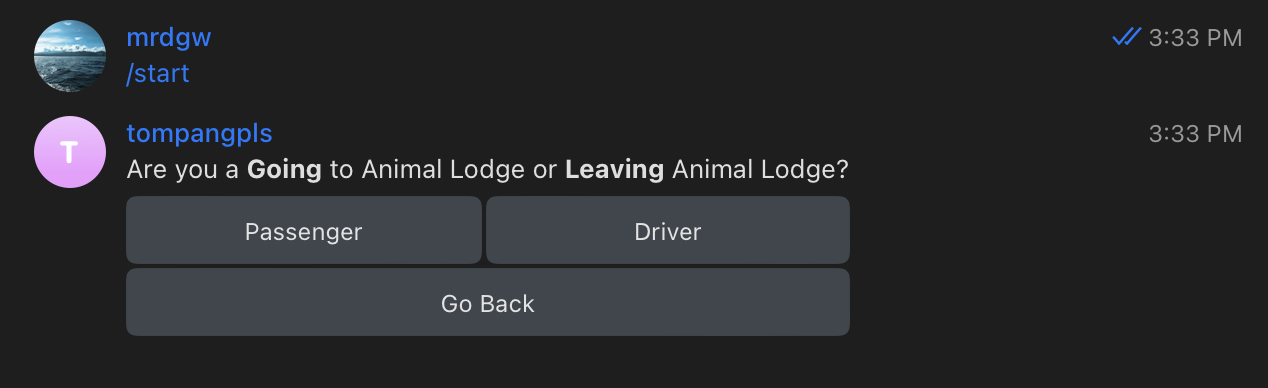
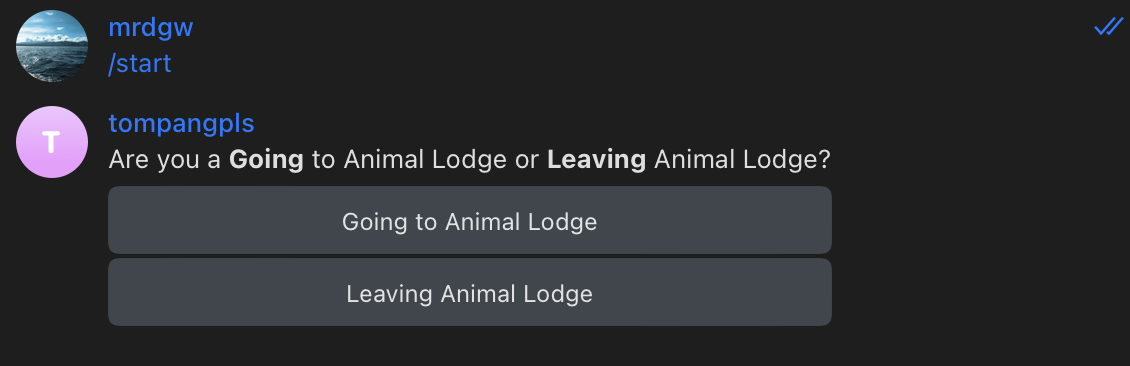
pic1_11

diff --git a/README.md b/README.md
@@ -13,17 +13,22 @@ This bot serves to connect people who are going/leaving Animal lodge at the same
 __Action__      
 __Telegram bot : Please add @tompangplsbot__. 
 
-User Flow:
-![alt text](https://github.com/duguowei1000/TompangMePls/blob/main/pics/1.png)
-
-Users  indicate:  
+__User Flow:__
+  
 1) Going/Leaving Animal Lodge
-![alt text](https://github.com/duguowei1000/TompangMePls/blob/main/pics/2.png?raw=true )
-
+![alt text](https://github.com/duguowei1000/TompangMePls/blob/main/pics/1.png)
 2) Passenger/Driver
+![alt text](https://github.com/duguowei1000/TompangMePls/blob/main/pics/2.png)
 3) If Driver( how many passengers they can take?)
+![alt text](https://github.com/duguowei1000/TompangMePls/blob/main/pics/3.png)
 4) Which Day?
+![alt text](https://github.com/duguowei1000/TompangMePls/blob/main/pics/4.png)
 5) Preferred Time
+![alt text](https://github.com/duguowei1000/TompangMePls/blob/main/pics/5.png)
 6) Output: Suggested Timeslots for users to choose
+![alt text](https://github.com/duguowei1000/TompangMePls/blob/main/pics/6.png)
 7) Once timeslot chosen, user will be issued an invite link to join. 
+![alt text](https://github.com/duguowei1000/TompangMePls/blob/main/pics/7.png)
+* if already in a group, notified on their timeslots
+![alt text](https://github.com/duguowei1000/TompangMePls/blob/main/pics/8.png)
 8) In their respective telegram grps, it will be up to them to decide whether to carry out a carpool/ driver hitch and the exact place to meet:)
